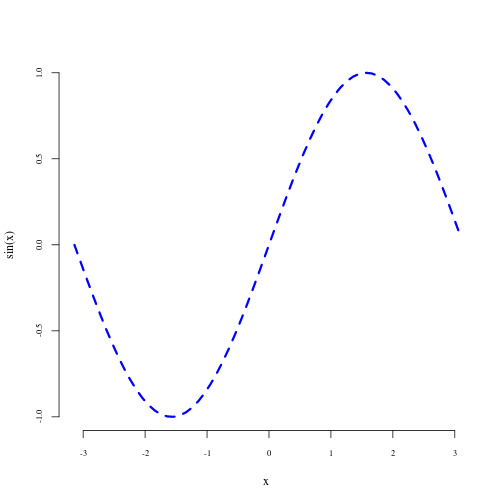
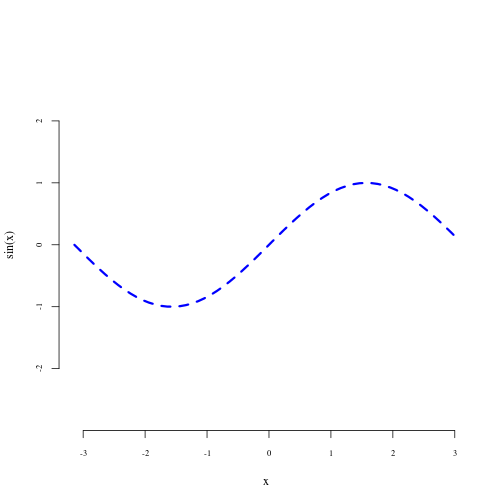
more
Former-commit-id: 8b17f2e11b82114e448a2213e4faed1d9ec1630d

diff --git a/overviews.md b/overviews.md
@@ -28,8 +28,9 @@ plot(x,y, type = "line", col = "blue",
      ylab = "sin(x)",
      lty = 2, # make the line dotted
      lwd = 3, # make line thicker
-     bty = "n" # remove the bounding box
-     ) # ...
+     bty = "n", # remove the bounding box
+     asp = 1
+     ) 
 ```
 
 ```
@@ -37,6 +38,15 @@ plot(x,y, type = "line", col = "blue",
 ```
 
 ![plot of chunk unnamed-chunk-2](figure/unnamed-chunk-2.png) 
+
+```r
+dev.off() # this resets the plot options
+```
+
+```
+## null device 
+##           1
+```
 
 Although we will be using the more recent ggplot package, which works differently from R's base graphics,
 the principles will be the same: you start with a basic representation of your data and add 
@@ -62,11 +72,11 @@ list.files()  # shows what's in your working director - should include zip file
 ```
 
 ```
-##  [1] "figure"           "ggmapTemp.png"    "london_sport.dbf"
-##  [4] "london_sport.prj" "london_sport.sbn" "london_sport.sbx"
-##  [7] "london_sport.shp" "london_sport.shx" "London_Sport.zip"
-## [10] "overviews.html"   "overviews.md"     "overviews.Rmd"   
-## [13] "README.md"
+##  [1] "figure"           "ggmapTemp.png"    "Intro-2-R.Rproj" 
+##  [4] "london_sport.dbf" "london_sport.prj" "london_sport.sbn"
+##  [7] "london_sport.sbx" "london_sport.shp" "london_sport.shx"
+## [10] "London_Sport.zip" "overviews.html"   "overviews.md"    
+## [13] "overviews.Rmd"    "README.md"
 ```
 
 ```r
@@ -75,11 +85,11 @@ list.files()  # should have .shp file added
 ```
 
 ```
-##  [1] "figure"           "ggmapTemp.png"    "london_sport.dbf"
-##  [4] "london_sport.prj" "london_sport.sbn" "london_sport.sbx"
-##  [7] "london_sport.shp" "london_sport.shx" "London_Sport.zip"
-## [10] "overviews.html"   "overviews.md"     "overviews.Rmd"   
-## [13] "README.md"
+##  [1] "figure"           "ggmapTemp.png"    "Intro-2-R.Rproj" 
+##  [4] "london_sport.dbf" "london_sport.prj" "london_sport.sbn"
+##  [7] "london_sport.sbx" "london_sport.shp" "london_sport.shx"
+## [10] "London_Sport.zip" "overviews.html"   "overviews.md"    
+## [13] "overviews.Rmd"    "README.md"
 ```
 
 
